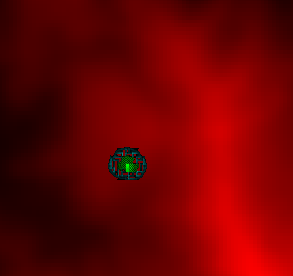
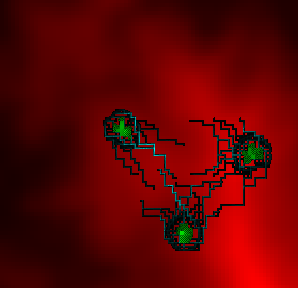
minor normal distribution bug fix
Now, normal distribution will not collide between groups

diff --git a/Assets/OnMapSpawn.cs b/Assets/OnMapSpawn.cs
@@ -122,6 +122,9 @@ public class OnMapSpawn : MonoBehaviour
     float homeRangeMultiplier = 2.0f; //default home range multiplier = x1.8
 
     [SerializeField]
+    bool allowElevation = true;
+
+    [SerializeField]
     float hordeMoveRate = 0.4f;
 
     [SerializeField]
@@ -440,6 +443,11 @@ public class OnMapSpawn : MonoBehaviour
     //since the distribution always equal to GridSize, height difference create the theta elevation
     private float distributeElevationLevel(float height1, float height2)
     {
+        if (!allowElevation)
+        {
+            return 1.0f;
+        }
+            
         float degree = findDegreeSlope(GridSize , abs(height1 - height2));
         if (degree > walkable_degree || degree < -walkable_degree)
         {
@@ -589,23 +597,11 @@ public class OnMapSpawn : MonoBehaviour
     //(reference: https://en.wikipedia.org/wiki/Normal_distribution)
     private void normalDistribution(int round)
     {
-        int at_lat, at_lon;
-        int initial_size = dogdata.Count;
-        for (int i = 0; i < initial_size; i++)
+        for (int x = 0; x < xgridsize; x++)
         {
-            at_lat = dogdata[i].latid;
-            at_lon = dogdata[i].lonid;
-            int right = inSize(at_lon + round, false), 
-                left  = inSize(at_lon - round, false), 
-                down  = inSize(at_lat - round), 
-                up    = inSize(at_lat + round);
-
-            for (int lonid = left; lonid < right; lonid++)
+            for (int y = 0; y < ygridsize; y++)
             {
-                for (int latid = down; latid < up; latid++)
-                {
-                    centralDistribution(latid , lonid);
-                }
+                centralDistribution(y , x);
             }
         }
         extractDistribution();
